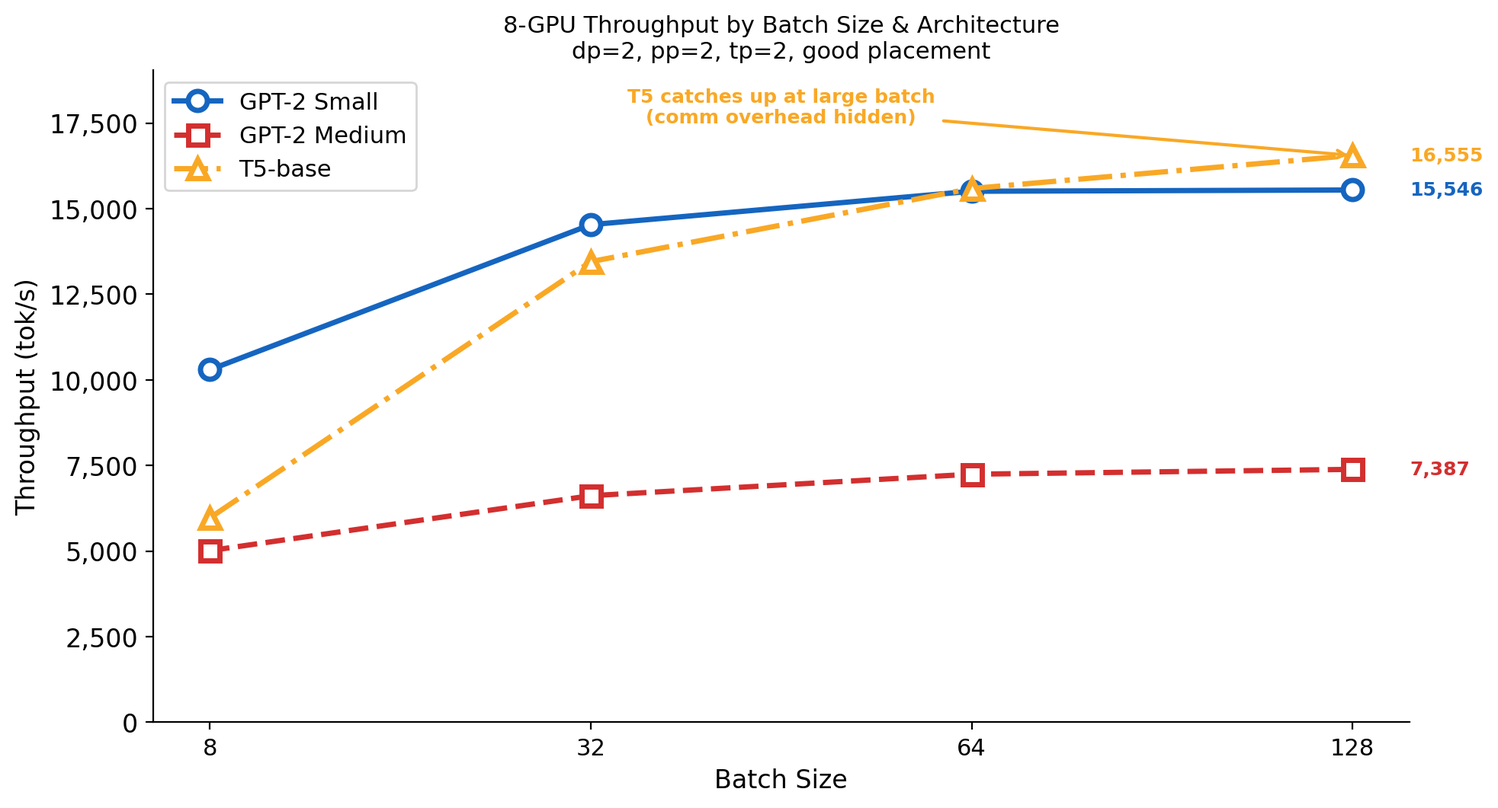
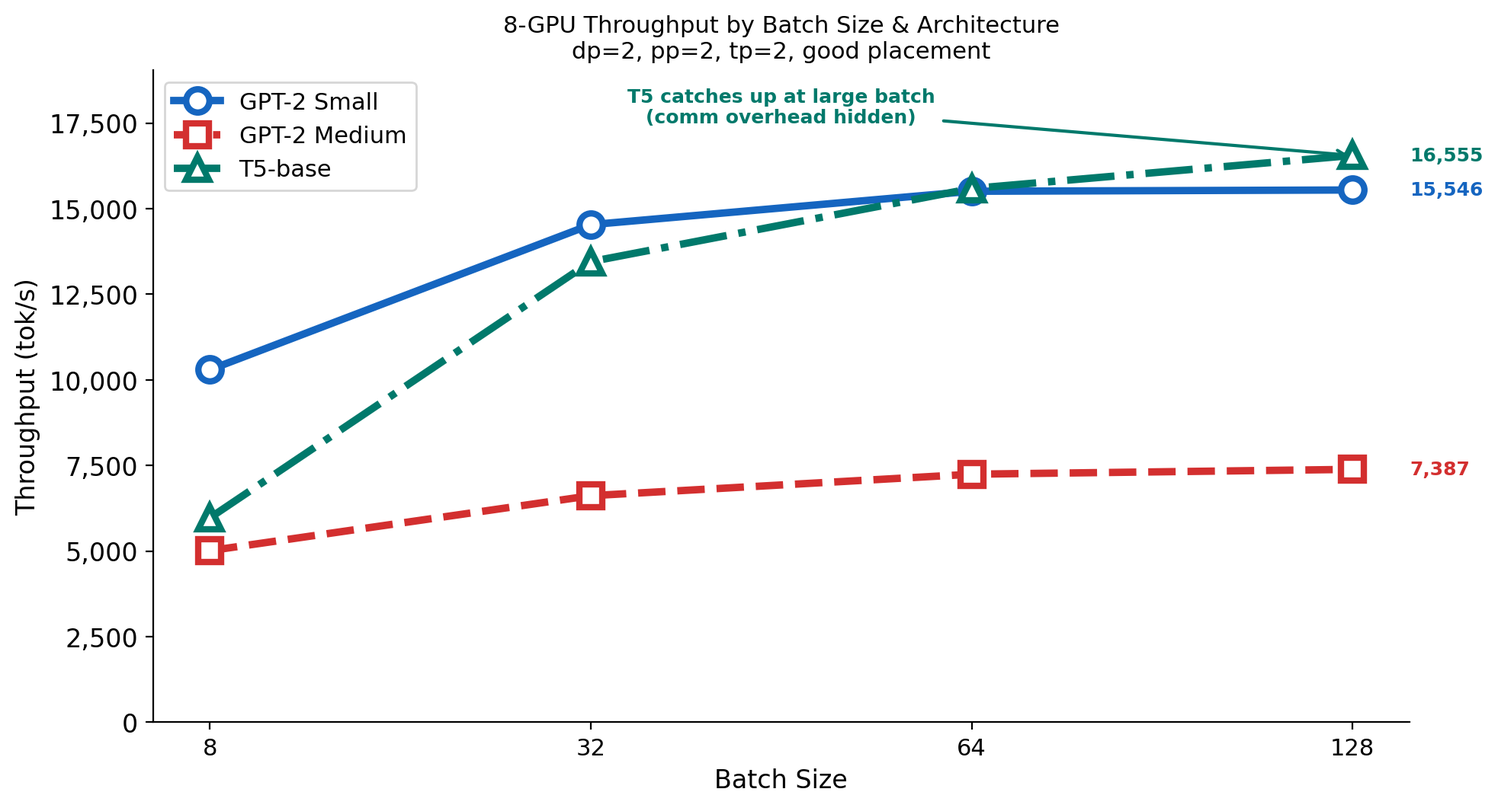
FINAL report 3 - report_phase3_final.tex

diff --git a/reports/phase3/report_phase3_final.tex b/reports/phase3/report_phase3_final.tex
@@ -13,7 +13,7 @@
     T\kern-.1667em\lower.7ex\hbox{E}\kern-.125emX}}
 \begin{document}
 
-\title{Mini Colossal-AI Phase~3: Communication-Aware 3D Hybrid Parallelism on Heterogeneous GPU Clusters\\}
+\title{Mini Colossal-AI: Implementing Distributed Parallelism Strategies from Scratch\\}
 
 \author{\IEEEauthorblockN{Dinesh Chand}
 \IEEEauthorblockA{\textit{MTech-AI, IISc-Bangalore} \\
@@ -36,63 +36,38 @@ nadhiyar@iisc.ac.in}
 
 % ==============================================================================
 \begin{abstract}
-We present Phase~3 of \textit{Mini Colossal-AI}, extending our from-scratch distributed training library to full 3D hybrid parallelism (DP$\times$PP$\times$TP) on a heterogeneous GPU cluster. Using 2~nodes with 4~NVIDIA T4 GPUs each (PCIe intra-node at ${\sim}15$\,GB/s, TCP inter-node at ${\sim}0.6$\,GB/s), we systematically study communication-aware placement---the assignment of parallelism axes to network tiers. We find that placing pipeline parallelism on the slow inter-node link (``good'' placement) yields up to 28.5\% higher throughput compared to the worst placement, and that incorrect placement causes training deadlocks at batch sizes ${\geq}16$. Tensor parallelism memory savings ($-$37\% per GPU) enable 16$\times$ larger batch sizes, pushing throughput from 4,851 to 7,387~tok/s for GPT\nobreakdash-2 Medium. We further implement T5-base, an encoder-decoder model, and show that its asymmetric architecture causes lower hybrid scaling (1.78$\times$ at bs=8) compared to symmetric GPT\nobreakdash-2 (2.65--3.57$\times$), attributable to pipeline imbalance and higher tensor-parallel communication overhead. At large batch sizes, T5 closes this gap (3.49$\times$ vs.\ 3.51$\times$), demonstrating that batch-level amortization can compensate for architectural disadvantages.
+Training large language models requires distributing computation across multiple GPUs, but production frameworks hide the underlying communication logic behind high-level APIs. We present \textit{Mini Colossal-AI}, a distributed training library built entirely from raw \texttt{torch.distributed} primitives, implementing four parallelism strategies---data parallelism (DP), ZeRO optimizer sharding, 1D tensor parallelism (TP), and pipeline parallelism (PP)---with multiple variants each, composed through a unified 3D plugin modeled after Colossal-AI's process group mesh. We benchmark standalone and 2-axis hybrid configurations on a 4-GPU all-TCP cluster, then scale to a heterogeneous 8-GPU cluster with full 3D parallelism (DP$\times$PP$\times$TP). Communication-aware placement yields up to 28.5\% higher throughput and is essential for training stability. TP memory savings enable 16$\times$ larger batch sizes, pushing peak throughput to 7,387~tok/s (4.73$\times$ single-GPU speedup). Extending to the T5-base encoder-decoder model, we find that architectural asymmetry reduces scaling at small batches but large batches close the gap.
 \end{abstract}
 
 \begin{IEEEkeywords}
-Distributed Training, Communication-Aware Placement, 3D Hybrid Parallelism, Pipeline Parallelism, Tensor Parallelism, Encoder-Decoder
+Distributed Training, Data Parallelism, Pipeline Parallelism, Tensor Parallelism, ZeRO, Communication-Aware Placement, 3D Hybrid Parallelism
 \end{IEEEkeywords}
 
 % ==============================================================================
 \section{Introduction}
 
-Training large language models requires distributing computation across multiple GPUs, typically combining data parallelism (DP), tensor parallelism (TP), and pipeline parallelism (PP) into 3D hybrid configurations~\cite{DBLP:journals/corr/abs-1909-08053, 10.1145/3605573.3605613}. While each axis has well-understood trade-offs in isolation, their interaction on heterogeneous clusters---where intra-node and inter-node links differ by an order of magnitude in bandwidth---is less explored in educational implementations.
+The growth of Transformer-based models from millions to billions of parameters~\cite{DBLP:journals/corr/abs-1810-04805, DBLP:journals/corr/abs-2005-14165} has created a ``memory wall'' where model parameters, gradients, and optimizer states together exceed the capacity of a single GPU. Distributed training addresses this by spreading computation across multiple devices, but different strategies involve different trade-offs: Data Parallelism (DP) replicates the model on every GPU, Tensor Parallelism (TP)~\cite{DBLP:journals/corr/abs-1909-08053} splits individual layers, Pipeline Parallelism (PP)~\cite{DBLP:journals/corr/abs-1811-06965, 10.1145/3341301.3359646} distributes layers across devices, and ZeRO~\cite{rajbhandari2019zero} partitions optimizer states. Production frameworks such as DeepSpeed~\cite{rasley2020deepspeed} and Colossal-AI~\cite{10.1145/3605573.3605613} implement and compose these strategies, but they hide the underlying communication logic behind high-level APIs, making it difficult to reason about how each strategy works.
 
-In Phase~2 of this project, we built \textit{Mini Colossal-AI}: a from-scratch distributed training library implementing DP, TP, PP, and ZeRO optimizer sharding using only \texttt{torch.distributed} primitives, composed through a unified 3D plugin modeled after Colossal-AI~\cite{10.1145/3605573.3605613}. That phase operated on a 4-node, all-TCP cluster (1~GPU per node), limiting experiments to two parallelism axes at a time under uniformly slow communication.
+To develop this understanding from first principles, we present \textit{Mini Colossal-AI}, a distributed training library built entirely from raw \texttt{torch.distributed} primitives. We implement four parallelism strategies---DP (with four gradient sync variants), ZeRO Stage~1 and~2, 1D TP (Megatron-LM style), and PP (naive and 1F1B schedules)---and compose them into hybrid configurations through a unified 3D plugin modeled after Colossal-AI's process group mesh~\cite{10.1145/3605573.3605613}.
 
-Phase~3 addresses three limitations. First, we move to a heterogeneous-interconnect cluster (2 nodes $\times$ 4~GPUs, PCIe intra-node, TCP inter-node) and activate all three parallelism axes simultaneously in a $(2,2,2)$ mesh. Second, we systematically study \textit{communication-aware placement}: which parallelism axis should be assigned to which network tier, and what happens when the assignment is wrong. Third, we extend our framework to support T5-base~\cite{raffel2020exploring}, an encoder-decoder architecture, to test whether our findings generalize across fundamentally different model structures.
+We benchmark all standalone and 2-axis hybrid configurations on a 4-node all-TCP cluster, then scale to a heterogeneous 8-GPU cluster and activate all three axes simultaneously. We systematically study \textit{communication-aware placement}---the mapping of parallelism axes to network tiers---and further extend our framework to T5-base~\cite{raffel2020exploring}, an encoder-decoder architecture, to test whether our findings generalize across fundamentally different model structures.
 
-\textbf{Phase~2 context.} On the Phase~2 all-TCP cluster, PP dominated throughput because it only performs point-to-point sends, while TP and DP suffered from frequent all-reduces over the slow network. Table~\ref{tab:phase2v3} compares Phase~2 standalone and 2-axis results with Phase~3's full 3D hybrid. These results raised the natural question: on a cluster with \textit{both} fast and slow links, which axis should be placed where? Phase~3 answers this question and simultaneously activates all three axes for the first time.
-
-\begin{table}[h]
-\centering
-\caption{Phase~2 vs.\ Phase~3 --- GPT-2 Medium throughput progression}
-\label{tab:phase2v3}
-\small
-\begin{tabular}{@{}llrr@{}}
-\toprule
-\textbf{Phase} & \textbf{Config} & \textbf{GPUs} & \textbf{tok/s} \\
-\midrule
-\multicolumn{4}{@{}l}{\textit{Phase~2: 4$\times$g4dn.xlarge, all-TCP}} \\
-\addlinespace
-2 & DP (NCCL-bucketed) & 4 & 1,393 \\
-2 & TP (4-way) & 4 & 959 \\
-2 & PP (1F1B, 4 stages) & 4 & 3,070 \\
-2 & DP$\times$TP & 4 & 2,327 \\
-2 & DP$\times$PP & 4 & 2,281 \\
-\midrule
-\multicolumn{4}{@{}l}{\textit{Phase~3: 2$\times$g4dn.12xlarge, PCIe\,+\,TCP}} \\
-\addlinespace
-3 & 3D good (bs=8) & 8 & 4,851 \\
-3 & 3D good (bs=128) & 8 & 7,387 \\
-\bottomrule
-\end{tabular}
-\end{table}
-
-Our contributions are: (1)~a systematic placement study showing that correct axis-to-link assignment is not merely a performance optimization but is essential for training stability; (2)~a demonstration that TP-enabled memory savings unlock 16$\times$ larger batch sizes, shifting the system from communication-bound to compute-bound operation; (3)~a multi-architecture comparison revealing how pipeline imbalance and cross-attention overhead reduce T5's hybrid scaling relative to GPT-2; and (4)~an analysis of ZeRO-1 composition with full 3D parallelism.
+Our contributions are: (1)~a from-scratch implementation of four parallelism strategies with multiple variants each, composed through a unified 3D plugin; (2)~a systematic placement study showing that correct axis-to-link assignment is not merely a performance optimization but is essential for training stability; (3)~a demonstration that TP-enabled memory savings unlock 16$\times$ larger batch sizes, shifting the system from communication-bound to compute-bound operation; (4)~a multi-architecture comparison revealing how pipeline imbalance and cross-attention overhead reduce T5's hybrid scaling relative to GPT-2; and (5)~an analysis of ZeRO-1 composition with full 3D parallelism.
 
 % ==============================================================================
 \section{Related Work}
 
-\textbf{Data Parallelism.} PyTorch DDP~\cite{li2020pytorch} replicates the model on each GPU, synchronizing gradients via all-reduce after each backward pass. Ring all-reduce~\cite{patarasuk2009bandwidth} achieves bandwidth-optimal scaling, with each GPU transmitting $2(P{-}1)/P$ times the gradient size.
+\textbf{Data Parallelism (DP)} replicates the model on every GPU and synchronizes gradients after each backward pass. The main bottleneck is the all-reduce communication. Ring all-reduce~\cite{patarasuk2009bandwidth} distributes the reduction across all nodes in $2(P{-}1)$ steps, achieving bandwidth-optimal communication. Gradient bucketing~\cite{li2020pytorch} further improves this by batching many small gradient tensors into larger buffers before triggering all-reduce, reducing the number of communication rounds.
 
-\textbf{ZeRO Optimizer Sharding.} ZeRO~\cite{rajbhandari2019zero} partitions optimizer states (Stage~1), gradients (Stage~2), and parameters (Stage~3) across the DP group, trading communication for memory. DeepSpeed~\cite{rasley2020deepspeed} implements ZeRO stages as a drop-in optimizer wrapper.
+\textbf{ZeRO}~\cite{rajbhandari2019zero} addresses the memory redundancy in DP, where every GPU stores the full optimizer states, gradients, and parameters. Stage~1 partitions only the optimizer states, while Stage~2 also partitions gradients, reducing per-GPU memory from $16P$ bytes to roughly $4P + 12P/N$ or $4P + 4P/N$ respectively, where $P$ is the parameter count and $N$ is the number of GPUs.
 
-\textbf{Tensor Parallelism.} Megatron-LM~\cite{DBLP:journals/corr/abs-1909-08053} introduced 1D TP, splitting linear layers into column-parallel and row-parallel halves and inserting all-reduce operations at layer boundaries. Because TP requires two all-reduces per transformer block per forward pass, it is highly sensitive to interconnect bandwidth, motivating intra-node placement on NVLink or PCIe.
+\textbf{Tensor Parallelism (TP)} splits individual layers across GPUs. Megatron-LM~\cite{DBLP:journals/corr/abs-1909-08053} introduced 1D TP for transformers, where each attention head and MLP slice is computed on a separate GPU, requiring two all-reduces per transformer block.
 
-\textbf{Pipeline Parallelism.} GPipe~\cite{DBLP:journals/corr/abs-1811-06965} partitions the model into sequential stages across GPUs, splitting batches into micro-batches to increase utilization. PipeDream~\cite{10.1145/3341301.3359646} introduced 1F1B scheduling, which interleaves forward and backward passes to reduce memory footprint and pipeline bubbles. PP communication is point-to-point between adjacent stages, making it the least bandwidth-sensitive axis.
+\textbf{Pipeline Parallelism (PP)} assigns consecutive layers to different GPUs. GPipe~\cite{DBLP:journals/corr/abs-1811-06965} splits mini-batches into micro-batches for concurrent execution but suffers from pipeline flushes. PipeDream~\cite{10.1145/3341301.3359646} introduced the 1F1B (one-forward-one-backward) schedule, which interleaves forward and backward passes to keep more stages busy simultaneously.
 
-\textbf{3D Hybrid Parallelism.} Colossal-AI~\cite{10.1145/3605573.3605613} arranges ranks in an $N$-dimensional mesh where slower-varying axes map to slower network tiers. Megatron-LM~\cite{DBLP:journals/corr/abs-1909-08053} keeps TP within NVLink-connected nodes and PP across nodes. Our work validates these placement heuristics empirically, tests three distinct axis-to-link assignments, and additionally demonstrates the stability implications of incorrect placement.
+\textbf{Colossal-AI}~\cite{10.1145/3605573.3605613} unifies these strategies through a process group mesh, an $N$-dimensional grid of ranks where each axis corresponds to a parallelism dimension (DP, PP, TP), enabling arbitrary combinations without code duplication. Our work follows this design closely.
+
+\textbf{Communication-Aware Placement.} In 3D hybrid parallelism, which axis maps to which network tier matters significantly. Megatron-LM~\cite{DBLP:journals/corr/abs-1909-08053} keeps TP within NVLink-connected nodes and PP across nodes, since PP only performs point-to-point sends while TP requires frequent all-reduces. Our work validates these placement heuristics empirically, tests three distinct axis-to-link assignments, and demonstrates the stability implications of incorrect placement.
 
 \textbf{T5 Encoder-Decoder Model.} Raffel et al.~\cite{raffel2020exploring} proposed T5, casting every NLP task as sequence-to-sequence generation. Unlike decoder-only GPT-2~\cite{radford2019language}, each T5 decoder block contains an additional cross-attention sublayer attending to the encoder output, increasing both parameter count per block and TP communication volume.
 
@@ -101,17 +76,53 @@ Our contributions are: (1)~a systematic placement study showing that correct axi
 
 \subsection{Hardware Setup}
 
-Phase~3 runs on 2~AWS g4dn.12xlarge instances, each with 4~NVIDIA Tesla T4 GPUs (16\,GB HBM each). Intra-node GPU communication uses PCIe Gen3 (${\sim}15$\,GB/s); inter-node communication uses TCP over VPC (${\sim}0.6$\,GB/s). This 25$\times$ bandwidth gap between intra-node and inter-node links creates the heterogeneous environment central to our placement study. All experiments use PyTorch~2.4.1 with NCCL for collective operations and Gloo for control-plane coordination.
+Standalone and 2-axis hybrid experiments run on 4~AWS g4dn.xlarge instances (1~T4 GPU each), connected via TCP over a VPC private network. For full 3D hybrid experiments, we use 2~AWS g4dn.12xlarge instances, each with 4~NVIDIA Tesla T4 GPUs (16\,GB VRAM each). Intra-node GPU communication uses PCIe Gen3 (${\sim}15$\,GB/s); inter-node communication uses TCP over VPC (${\sim}0.6$\,GB/s). This 25$\times$ bandwidth gap between intra-node and inter-node links creates the heterogeneous environment central to our placement study. All experiments use PyTorch~2.4.1 with CUDA 12.1 and the NCCL backend.
 
-\subsection{3D Hybrid Parallelism Plugin}
+\subsection{Models and Data}
 
-With 8~GPUs and $\text{dp}{=}2$, $\text{pp}{=}2$, $\text{tp}{=}2$, our unified plugin creates a $(2,2,2)$ 3D process group mesh. Each GPU belongs simultaneously to one DP group, one PP group, and one TP group. The plugin passes the correct process sub-group to each component: the DP sub-group to gradient synchronization, PP neighbor ranks to the 1F1B pipeline schedule, and the TP sub-group to column/row-parallel layers. No code changes are needed between configurations---only the mesh axis ordering changes.
+All models are implemented from scratch in PyTorch. We use two GPT-2~\cite{radford2019language} configurations:
+\begin{itemize}
+\item \textbf{GPT-2 Small}: 12~layers, $d{=}768$, 12~heads, ${\sim}117$M parameters. Each block contributes 2~TP all-reduces (one per sub-layer), giving 24 all-reduces per forward pass.
+\item \textbf{GPT-2 Medium}: 24~layers, $d{=}1024$, 16~heads, ${\sim}354$M parameters. The 24~identical blocks split evenly across 2~pipeline stages (12 each), producing near-perfect compute balance. 48 all-reduces per forward pass.
+\end{itemize}
 
-For pipeline stages, each stage wraps its transformer blocks in tensor-parallel versions (column-parallel and row-parallel linear layers with built-in all-reduce). Replicated parameters (embeddings, LayerNorm, \texttt{lm\_head}) are synchronized across the TP group before DP gradient synchronization to ensure consistency.
+\textbf{T5-base}~\cite{raffel2020exploring} is an encoder-decoder transformer (${\sim}237$M parameters) with 12~encoder layers ($d{=}768$, 12~heads) and 12~decoder layers. Each decoder block adds a cross-attention sub-layer attending to the encoder output, requiring 3~TP all-reduces per block versus GPT-2's~2---giving 60 total per forward pass (24~encoder + 36~decoder), 25\% more than GPT-2 Medium. For pipeline parallelism, the encoder maps to stage~0 and the decoder to stage~1, creating an inherent compute imbalance because decoder blocks are heavier.
+
+The dataset is WikiText-2~\cite{merity2016pointer} (${\sim}2.4$M tokens), tokenized with the GPT-2 byte-pair encoding, with a fixed sequence length of 256 tokens and a vocabulary size of 50,257.
+
+\subsection{Data Parallelism}
+
+Each GPU holds a full copy of the model and processes a distinct data shard. After the backward pass, gradients are averaged across all GPUs before the optimizer step. Our implementations use two communication operations from PyTorch's \texttt{torch.distributed} library~\cite{li2020pytorch}: \texttt{dist.send}/\texttt{dist.recv}, where one GPU sends gradients directly to another, and \texttt{dist.all\_reduce}, where all GPUs participate at once to sum their gradients, with NCCL internally choosing the best algorithm (ring, tree, etc.).
+
+We implement four synchronization variants. First, the naive approach uses \texttt{dist.send}/\texttt{dist.recv} in an all-to-all pattern with $O(P)$ bandwidth cost. Second, ring all-reduce~\cite{patarasuk2009bandwidth} arranges GPUs in a ring and performs reduce-scatter and all-gather phases via \texttt{dist.send}/\texttt{dist.recv}, achieving a bandwidth-optimal cost of $2N(P{-}1)/P$. Third, the ring-bucketed variant groups gradients into 25\,MB buckets~\cite{li2020pytorch} before applying the same ring algorithm, reducing communication rounds from one per parameter to roughly five per step. Fourth, the NCCL-bucketed variant uses the same bucketing but calls \texttt{dist.all\_reduce} on each bucket, letting NCCL handle the communication internally. This variant also accepts an optional process group so that gradient averaging can be restricted to a subset of GPUs in hybrid configurations.
+
+\subsection{ZeRO Optimizer Sharding}
+
+We implement ZeRO~\cite{rajbhandari2019zero} Stage~1 and Stage~2 as custom optimizer wrappers. In both stages, the model's parameters are flattened into a single vector and divided equally among $P$ GPUs. Each GPU only creates Adam optimizer states (momentum and variance) for its own $1/P$ partition, cutting optimizer memory by a factor of $P$.
+
+In Stage~1, after the backward pass, gradients are averaged across all GPUs using \texttt{dist.all\_reduce}. Each GPU then runs the Adam update only on its own partition and calls \texttt{dist.all\_gather} so every GPU ends up with the full updated model.
+
+Stage~2 saves additional memory by also partitioning gradients. Each GPU only keeps the gradient slice for its own partition and discards the rest. After updating its partition, each GPU broadcasts its updated parameters to all others using \texttt{dist.broadcast}. This reduces both gradient and optimizer memory by a factor of $P$.
+
+Stage~1 accepts an optional process group parameter, allowing it to run within a subset of GPUs for hybrid parallelism.
+
+\subsection{1D Tensor Parallelism}
+
+Following Megatron-LM~\cite{DBLP:journals/corr/abs-1909-08053}, we implement two custom linear layers: \textbf{ColumnParallelLinear} (splits weights along columns, no forward communication, all-reduce on backward) and \textbf{RowParallelLinear} (splits along rows, all-reduce to sum partial outputs). In each transformer block, the attention Q/K/V projections use column-parallel and the output projection uses row-parallel; the MLP is split similarly. This gives 2 all-reduces per block, totaling 48 per forward pass for our 24-layer GPT-2 Medium model.
+
+\subsection{Pipeline Parallelism with 1F1B}
+
+We partition the model's transformer blocks evenly across pipeline stages and communicate activations (forward) and gradients (backward) via \texttt{dist.send}/\texttt{dist.recv}. We implement two schedules: the \textbf{naive} schedule processes all micro-batches sequentially through each stage with bubble ratio $\approx (S{-}1)/S$, while the \textbf{1F1B} schedule interleaves one forward and one backward pass per stage after a warmup of $S{-}1$ forwards, reducing the bubble to $(S{-}1)/(S{-}1+M)$. With $S=4$ stages and $M=8$ micro-batches, this drops the bubble from 75\% to $\sim$27\%. Both schedules support rank remapping for use in hybrid configurations.
+
+\subsection{Hybrid Parallelism and the Unified Plugin}
+
+Following Colossal-AI's approach~\cite{10.1145/3605573.3605613}, we wrote a single unified plugin that takes TP size, PP size, and ZeRO stage as arguments and computes $\text{dp\_size} = \text{world\_size} / (\text{tp\_size} \times \text{pp\_size})$ automatically. The core idea is a \textbf{3D process group mesh}: all GPUs are arranged in a grid with axes (DP, PP, TP), and \texttt{torch.distributed} sub-groups are created along each axis. Every standalone component accepts an optional process group---the plugin passes the DP sub-group to gradient sync, PP neighbor ranks to the pipeline schedule, and the TP sub-group to column/row-parallel layers.
+
+On the 4-GPU all-TCP cluster, this limits us to two axes at a time (e.g., DP$\times$PP or DP$\times$TP). With 8~GPUs on the heterogeneous cluster, we activate all three axes simultaneously in a $(2,2,2)$ mesh where each GPU belongs to one TP, PP, and DP group. For pipeline stages, each stage wraps its transformer blocks in tensor-parallel versions. Replicated parameters (embeddings, LayerNorm, \texttt{lm\_head}) are synchronized across the TP group before DP gradient synchronization to ensure consistency.
 
 \subsection{Communication-Aware Placement}
 
-The mesh axis ordering determines which parallelism axis maps to the inter-node link. The first (slowest-varying) axis spans across nodes. We test three placements:
+With 8~GPUs arranged in a $(2,2,2)$ mesh, each GPU belongs to exactly one TP, PP, and DP sub-group. The three axes have very different communication profiles: DP performs one all-reduce of the full gradient buffer (${\sim}1.4$\,GB for GPT-2 Medium) per step, TP performs many small all-reduces at every transformer block boundary (48 per forward pass for GPT-2 Medium), and PP sends only small point-to-point activation tensors between adjacent stages. On our heterogeneous cluster, the mesh axis ordering determines which axis maps to the slow inter-node TCP link (${\sim}0.6$\,GB/s) versus the fast intra-node PCIe (${\sim}15$\,GB/s)---the first (slowest-varying) axis spans across nodes. We test three placements:
 
 \begin{itemize}
 \item \textbf{Good}: mesh\,=\,(pp,\,dp,\,tp). PP goes inter-node; DP and TP stay intra-node.
@@ -119,53 +130,78 @@ The mesh axis ordering determines which parallelism axis maps to the inter-node 
 \item \textbf{Worst}: mesh\,=\,(tp,\,pp,\,dp). TP goes inter-node; PP and DP stay intra-node.
 \end{itemize}
 
-The rationale: PP communicates only small point-to-point activation tensors between adjacent stages, DP synchronizes the entire gradient buffer (${\sim}1.4$\,GB for GPT-2 Medium), and TP performs many small but frequent all-reduces. We hypothesize that PP is the most tolerant of slow links, while DP and TP should reside on the fast intra-node interconnect.
+Since PP communicates only small activation tensors, it is the most tolerant of slow links, while the bandwidth-heavy DP and latency-sensitive TP should reside on the fast intra-node interconnect. Fig.~\ref{fig:good_placement} illustrates the good placement: TP pairs (e.g., GPU~0$\leftrightarrow$1) and DP pairs (e.g., GPU~0$\leftrightarrow$2) communicate over PCIe within each node, while PP links (e.g., GPU~0$\leftrightarrow$4) cross the slow inter-node TCP link.
 
-\subsection{Models}
-
-All models are implemented from scratch in PyTorch, using pre-norm residual connections (LayerNorm before each sub-layer) and GELU activations. Both architectures use fused QKV projections for self-attention and a feed-forward intermediate dimension of $4\times$ the hidden dimension.
-
-\textbf{GPT-2} is a decoder-only autoregressive transformer~\cite{radford2019language}. Each block consists of two sub-layers: (1)~causal multi-head self-attention with a triangular mask preventing attention to future tokens, and (2)~a position-wise feed-forward network (MLP). Token and learned positional embeddings are summed before the block stack; a final LayerNorm feeds into a language model head whose weights are tied with the token embedding matrix. We use two configurations:
-\begin{itemize}
-\item \textbf{GPT-2 Small}: 12~layers, $d{=}768$, 12~heads, ${\sim}117$M parameters. Each block contributes 2~TP all-reduces (one per sub-layer), giving 24 all-reduces per forward pass.
-\item \textbf{GPT-2 Medium}: 24~layers, $d{=}1024$, 16~heads, ${\sim}354$M parameters. The 24~identical blocks split evenly across 2~pipeline stages (12 each), producing near-perfect compute balance. 48 all-reduces per forward pass.
-\end{itemize}
-
-\textbf{T5-base} is an encoder-decoder transformer~\cite{raffel2020exploring} (${\sim}237$M parameters) with 12~encoder layers ($d{=}768$, 12~heads) and 12~decoder layers. Encoder blocks mirror the GPT-2 structure but use bidirectional self-attention (no causal mask). Decoder blocks add a third sub-layer---cross-attention---between self-attention and MLP: queries come from the decoder hidden state while keys and values come from the encoder output. This cross-attention sub-layer adds ${\sim}7$M parameters per decoder block (separate $W_Q$, fused $W_{KV}$, and $W_O$ projections). Under tensor parallelism, each decoder block requires 3~all-reduces versus GPT-2's~2, giving 60 total per forward pass (24~encoder + 36~decoder)---25\% more than GPT-2 Medium. For pipeline parallelism, the encoder maps to stage~0 and the decoder to stage~1, creating an inherent compute imbalance because decoder blocks are heavier.
-
-\subsection{Dataset}
-
-All models are trained on the WikiText-2 dataset~\cite{merity2016pointer} with a fixed sequence length of 256 tokens and a vocabulary size of 50,257 (GPT-2 tokenizer).
+\begin{figure}[h]
+\centering
+\includegraphics[width=\columnwidth]{fig_ppt_comm_aware_placement.png}
+\caption{Good placement on the $(2,2,2)$ mesh. TP (blue, solid) and DP (green, dashed) stay on fast intra-node PCIe; PP (red, dashed) crosses the slow inter-node TCP link.}
+\label{fig:good_placement}
+\end{figure}
 
 \subsection{Evaluation Metrics}
 
-We report \textit{aggregate throughput} (tokens/second across all GPUs), \textit{peak GPU memory} per pipeline stage, and \textit{speedup} relative to the single-GPU baseline at the same or best-case batch size. All experiments run for 20--30 training steps with AdamW ($\text{lr}=3{\times}10^{-4}$); we report the average of the last 15~steps to exclude warmup.
+We report \textit{aggregate throughput} (tokens/second across all GPUs), \textit{peak GPU memory} per pipeline stage, and \textit{speedup} relative to the single-GPU baseline at the same or best-case batch size, across 20--30 training steps per experiment.
 
 % ==============================================================================
 \section{Results and Discussion}
 
-\subsection{Single-GPU Baselines}
+\subsection{Standalone Strategies on the 4-GPU TCP Cluster}
 
-Table~\ref{tab:baselines} shows single-GPU performance for each model at various batch sizes. These baselines serve as the reference for all speedup calculations.
+We first evaluate each strategy in isolation on the 4-node all-TCP cluster using GPT-2 Medium (354M parameters, bs=4 per GPU unless noted). The single-GPU baseline throughput is 1,361~tok/s with 7.67\,GB peak memory.
+
+Fig.~\ref{fig:pcie_tcp} compares each standalone strategy on both the all-TCP cluster and a single PCIe node. On TCP, PP achieves the highest throughput (3,070~tok/s) because it only performs point-to-point sends between adjacent stages, while DP and TP suffer from frequent all-reduce operations over the slow network. TP provides the best memory reduction (56\%) but its 48 all-reduces per forward pass add ${\sim}316$\,ms of overhead on TCP. Moving to PCIe (${\sim}15$\,GB/s), DP, ZeRO, and TP all see 2.4--3.0$\times$ speedups because they rely on bandwidth-heavy all-reduce or all-gather operations, while PP improves by only 4\% because its small point-to-point activation tensors barely saturate even the TCP link. This asymmetry directly motivates the communication-aware placement study: PP should be assigned to the slow inter-node link while DP and TP benefit from fast intra-node PCIe.
+
+\begin{figure}[h]
+\centering
+\includegraphics[width=\columnwidth]{fig_phase3_pcie_vs_tcp.png}
+\caption{PCIe vs.\ TCP throughput for each standalone strategy (4 GPUs, GPT-2 Medium). DP, TP, and ZeRO-1 gain 2.4--3.0$\times$ from faster interconnect; PP gains only 1.0$\times$.}
+\label{fig:pcie_tcp}
+\end{figure}
+
+\subsubsection{2-Axis Hybrid Configurations}
+
+Table~\ref{tab:hybrid} shows hybrid results using the unified plugin on the 4-GPU cluster, where only two axes can be active simultaneously. DP$\times$TP and DP$\times$PP achieve similar throughput (${\sim}2,300$\,tok/s) with DP$\times$PP offering better memory savings (47\% vs.\ 37\%). Adding ZeRO-1 on top of DP$\times$PP reduces throughput by 24\% because the extra all-gather communication is not offset by meaningful memory savings with only 2 DP-group GPUs.
+
+\begin{table}[h]
+\centering
+\caption{2-axis hybrid parallelism (4 GPUs, all-TCP, GPT-2 Medium, bs=8)}
+\label{tab:hybrid}
+\small
+\begin{tabular}{lrrrr}
+\toprule
+\textbf{Config} & \textbf{Throughput} & \textbf{Mem} & \textbf{Bubble} & \textbf{Mem} \\
+ & \textbf{(tok/s)} & \textbf{(GB)} & & \textbf{Save} \\
+\midrule
+DP2$\times$TP2 & 2,327 & 4.80 & --- & 37\% \\
+DP2$\times$PP2 & 2,281 & 4.08 & 11.1\% & 47\% \\
+DP2$\times$PP2+ZeRO-1 & 1,742 & 5.74 & 11.1\% & opt/2 \\
+\bottomrule
+\end{tabular}
+\end{table}
+
+\subsection{Single-GPU Baselines (8-GPU Cluster)}
+
+Table~\ref{tab:baselines} shows single-GPU performance for each model at various batch sizes on the 8-GPU cluster. These baselines serve as the reference for all speedup calculations in the 3D hybrid experiments.
 
 \begin{table}[h]
 \centering
 \caption{Single-GPU baselines (T4 16\,GB)}
 \label{tab:baselines}
 \small
-\begin{tabular}{lrrrr}
+\begin{tabular}{lrrrrr}
 \toprule
-\textbf{Model} & \textbf{bs=4} & \textbf{bs=8} & \textbf{bs=16} & \textbf{Max bs} \\
- & \textbf{(tok/s)} & \textbf{(tok/s)} & \textbf{(tok/s)} & \\
+\textbf{Model} & \textbf{bs=4} & \textbf{bs=8} & \textbf{bs=16} & \textbf{bs=32} & \textbf{Max bs} \\
+ & \textbf{(tok/s)} & \textbf{(tok/s)} & \textbf{(tok/s)} & \textbf{(tok/s)} & \\
 \midrule
-GPT-2 Small & 3,619 & 4,147 & 4,426 & 16 \\
-GPT-2 Medium & 1,404 & 1,561 & OOM & 8 \\
-T5-base & 3,125 & 3,853 & 4,441 & 32 \\
+GPT-2 Small & 3,619 & 4,147 & 4,426 & OOM & 16 \\
+GPT-2 Medium & 1,404 & 1,561 & OOM & --- & 8 \\
+T5-base & 3,125 & 3,853 & 4,441 & 4,747 & 32 \\
 \bottomrule
 \end{tabular}
 \end{table}
 
-GPT-2 Medium can fit only bs=8 on a single T4 (11.1\,GB peak), while T5-base and GPT-2 Small accommodate larger batches. The T5-base single-GPU throughput at bs=32 reaches 4,747~tok/s.
+GPT-2 Medium can fit only bs=8 on a single T4 (11.1\,GB peak), while T5-base and GPT-2 Small accommodate larger batches.
 
 \subsection{Communication-Aware Placement}
 
@@ -224,14 +260,14 @@ Table~\ref{tab:arch_bs8} shows 8-GPU throughput and speedup at bs=8.
 \textbf{Model} & \textbf{Params} & \textbf{1-GPU} & \textbf{8-GPU} & \textbf{Speedup} \\
  & & \textbf{(tok/s)} & \textbf{(tok/s)} & \\
 \midrule
-GPT-2 Small & 117M & 3,879 & 10,297 & 2.65$\times$ \\
-GPT-2 Medium & 354M & 1,404 & 5,014 & 3.57$\times$ \\
-T5-base & 237M & 3,359 & 5,973 & 1.78$\times$ \\
+GPT-2 Small & 117M & 4,147 & 10,297 & 2.48$\times$ \\
+GPT-2 Medium & 354M & 1,561 & 5,014 & 3.21$\times$ \\
+T5-base & 237M & 3,853 & 5,973 & 1.55$\times$ \\
 \bottomrule
 \end{tabular}
 \end{table}
 
-GPT-2 achieves 2.65--3.57$\times$ hybrid speedup, while T5-base achieves only 1.78$\times$ despite being mid-sized (237M, between GPT-2 Small and Medium). Since GPT-2 Small at 117M is \textit{smaller} than T5-base yet scales 49\% better, the difference is architectural, not size-related.
+GPT-2 achieves 2.48--3.21$\times$ hybrid speedup, while T5-base achieves only 1.55$\times$ despite being mid-sized (237M, between GPT-2 Small and Medium). Since GPT-2 Small at 117M is \textit{smaller} than T5-base yet scales 60\% better, the difference is architectural, not size-related.
 
 \subsubsection{Batch Size Sweep Across Architectures}
 
@@ -263,20 +299,28 @@ T5-base & 4,747 & 16,555 & 3.49$\times$ & +177\% \\
 \end{tabular}
 \end{table}
 
-T5-base's speedup improves from 1.78$\times$ (bs=8) to 3.49$\times$ (bs=128)---a 96\% improvement---while GPT-2 Small improves from 2.65$\times$ to 3.51$\times$ (32\% improvement). Large batches amortize both the pipeline bubble and the extra TP all-reduces, neutralizing T5's architectural disadvantages. GPT-2 Medium achieves the highest speedup (4.73$\times$) because its larger model size provides the best compute-to-communication ratio.
+T5-base's speedup improves from 1.55$\times$ (bs=8) to 3.49$\times$ (bs=128)---a 125\% improvement---while GPT-2 Small improves from 2.48$\times$ to 3.51$\times$ (42\% improvement). Large batches amortize both the pipeline bubble and the extra TP all-reduces, neutralizing T5's architectural disadvantages. GPT-2 Medium achieves the highest speedup (4.73$\times$) because its larger model size provides the best compute-to-communication ratio.
 
 \subsection{Pipeline Imbalance Analysis}
 
-The key architectural factor behind T5's lower scaling at small batch sizes is \textit{pipeline stage imbalance}. Fig.~\ref{fig:imbalance} visualizes per-stage memory for each architecture. GPT-2 Medium's identical transformer blocks split into near-perfect halves (2.57 vs.\ 2.56\,GB), producing minimal pipeline bubbles. T5-base's encoder-decoder split creates a 62.7\% imbalance: the decoder stage (2.75\,GB) is significantly heavier than the encoder stage (1.69\,GB) because each decoder block contains an additional cross-attention sublayer with ${\sim}7$M extra parameters. In the 1F1B pipeline schedule, the lighter encoder finishes each micro-batch faster and must idle waiting for the slower decoder, accumulating wasted time across all micro-batches.
+T5-base's lower scaling at small batch sizes stems from \textit{pipeline stage imbalance}. Table~\ref{tab:imbalance} shows per-stage memory: GPT-2's identical blocks split into near-perfect halves, while T5-base's encoder-decoder split creates a 62.7\% imbalance because each decoder block contains an additional cross-attention sublayer (${\sim}7$M extra parameters). In the 1F1B schedule, the lighter encoder idles waiting for the slower decoder. A secondary factor is TP communication: T5-base requires 60 all-reduces per forward pass versus 48 for GPT-2 Medium (25\% more), further penalizing T5 at small batch sizes.
 
-\begin{figure}[h]
+\begin{table}[h]
 \centering
-\includegraphics[width=\columnwidth]{fig6_pipeline_imbalance.png}
-\caption{Per-stage memory across architectures. T5-base shows 62.7\% imbalance between encoder (stage~0) and decoder (stage~1), while GPT-2 is nearly perfectly balanced.}
-\label{fig:imbalance}
-\end{figure}
-
-A secondary factor is TP communication volume. T5-base requires 60 all-reduces per forward pass (12~encoder blocks $\times$ 2 + 12~decoder blocks $\times$ 3), compared to 48 for GPT-2 Medium (24~blocks $\times$ 2). This 25\% increase in communication operations further penalizes T5 under tensor parallelism, particularly when communication is not fully hidden by computation at small batch sizes.
+\caption{Per-stage memory and pipeline imbalance}
+\label{tab:imbalance}
+\small
+\begin{tabular}{lrrr}
+\toprule
+\textbf{Model} & \textbf{Stage 0} & \textbf{Stage 1} & \textbf{Imbalance} \\
+ & \textbf{(GB)} & \textbf{(GB)} & \\
+\midrule
+GPT-2 Small & 1.06 & 1.06 & 0\% \\
+GPT-2 Medium & 2.57 & 2.56 & 0.4\% \\
+T5-base & 1.69 & 2.75 & 62.7\% \\
+\bottomrule
+\end{tabular}
+\end{table}
 
 \subsection{ZeRO-1 Composition with 3D Parallelism}
 
@@ -301,42 +345,21 @@ ZeRO-1 partitions optimizer states across the DP group (2~GPUs in our configurat
 
 \subsection{Summary of Key Findings}
 
-Table~\ref{tab:summary} consolidates the main quantitative findings.
+The main quantitative findings are:
 
-\begin{table}[h]
-\centering
-\caption{Summary of Phase~3 key findings}
-\label{tab:summary}
-\small
-\begin{tabular}{@{}p{2.4cm}p{2.0cm}p{3.0cm}@{}}
-\toprule
-\textbf{Finding} & \textbf{Key metric} & \textbf{Implication} \\
-\midrule
-Good vs.\ worst placement & +28.5\% & PP tolerates slow links; TP/DP need fast PCIe \\
-\addlinespace
-Placement stability & Deadlock at bs${\geq}$16 & Correct placement essential, not optional \\
-\addlinespace
-Batch scaling & 4,851$\rightarrow$7,387 tok/s & TP memory savings enable 16$\times$ larger batches \\
-\addlinespace
-Architecture effect & 3.57$\times$ vs.\ 1.78$\times$ & Symmetric models scale better at small batches \\
-\addlinespace
-T5 catch-up & 3.49$\times$ vs.\ 3.51$\times$ & Large batches amortize arch.\ overhead \\
-\addlinespace
-ZeRO-1 overhead & $-$9.2\% & Manageable; valuable for larger models \\
-\bottomrule
-\end{tabular}
-\end{table}
+\begin{itemize}
+\item \textbf{Good vs.\ worst placement (+28.5\%).} PP tolerates slow links; TP/DP need fast PCIe.
+\item \textbf{Placement stability.} Bad/worst placements deadlock at bs${\geq}$16---correct placement is essential, not optional.
+\item \textbf{Batch scaling (4,851$\rightarrow$7,387 tok/s).} TP memory savings enable 16$\times$ larger batches, shifting the system from communication-bound to compute-bound.
+\item \textbf{Architecture effect (3.21$\times$ vs.\ 1.55$\times$).} Symmetric decoder-only models scale better than encoder-decoder models at small batch sizes.
+\item \textbf{T5 catch-up (3.49$\times$ vs.\ 3.51$\times$).} Large batches amortize architectural overhead, closing the gap.
+\item \textbf{ZeRO-1 overhead ($-$9.2\%).} Manageable cost; most valuable for larger models where optimizer memory is the binding constraint.
+\end{itemize}
 
 % ==============================================================================
 \section{Conclusion and Future Work}
 
-We presented a systematic study of communication-aware 3D hybrid parallelism on a heterogeneous GPU cluster. Our key findings are threefold.
-
-First, \textit{placement matters for both performance and stability}. Assigning pipeline parallelism---the least bandwidth-sensitive axis---to the slow inter-node link yields up to 28.5\% higher throughput than the worst placement. More critically, incorrect placement causes NCCL deadlocks at batch sizes ${\geq}$16, making communication-aware assignment essential for reliable training, not merely an optimization.
-
-Second, \textit{tensor parallelism enables a memory--throughput virtuous cycle}. TP shards model parameters, reducing per-GPU memory by 37\% and enabling 16$\times$ larger batch sizes than possible on a single GPU. These larger batches amortize communication overhead, pushing throughput from 4,851 to 7,387 tok/s (4.73$\times$ single-GPU speedup) and shifting the system from communication-bound to compute-bound operation.
-
-Third, \textit{model architecture fundamentally determines hybrid parallelism efficiency}. The symmetric, decoder-only GPT-2 achieves 2.65--3.57$\times$ speedup at small batch sizes, while the asymmetric, encoder-decoder T5 achieves only 1.78$\times$ under identical hardware and configuration. This gap stems from pipeline stage imbalance (62.7\% heavier decoder) and 25\% more TP communication from cross-attention. Importantly, at maximum batch size the gap closes (3.49$\times$ vs.\ 3.51$\times$), demonstrating that batch-level amortization compensates for architectural disadvantages.
+We presented \textit{Mini Colossal-AI}, a from-scratch distributed training library, and used it to systematically study communication-aware 3D hybrid parallelism on a heterogeneous GPU cluster. Our experiments show that correct placement is essential for both throughput and stability, that TP-enabled memory savings create a virtuous cycle enabling 16$\times$ larger batches (peak 4.73$\times$ speedup), and that model architecture fundamentally shapes scaling---though large batches close the gap between symmetric and asymmetric models. Notably, the peak speedup on 8~GPUs is 4.73$\times$, not the theoretical 8$\times$, because our $(2,2,2)$ mesh splits GPUs across three axes rather than using pure data parallelism: pipeline bubbles consume ${\sim}11$\% of compute even with the 1F1B schedule, TP adds 48 all-reduces per forward pass, and DP gradient synchronization further reduces utilization---each overhead multiplicatively compounds, limiting realized speedup to $\sim$59\% of the ideal.
 
 \textbf{Future work.} Several directions remain. (1)~\textit{Heterogeneous stage splitting}: splitting T5's encoder and decoder into unequal numbers of pipeline stages to reduce imbalance (e.g., 8~encoder layers on stage~0, 4~encoder + 12~decoder layers split across stages~1--2). (2)~\textit{Higher TP degrees}: testing TP=4 within a node to further reduce per-GPU memory and enable even larger models. (3)~\textit{NVLink evaluation}: moving to instances with NVLink (e.g., p3.8xlarge with V100s) to measure how the placement trade-offs change when intra-node bandwidth increases from 15\,GB/s (PCIe) to 300\,GB/s (NVLink). (4)~\textit{Mixed precision training}~\cite{micikevicius2018mixed}: combining FP16 computation with our parallelism strategies to further reduce memory and communication volume. (5)~\textit{Larger models}: testing GPT-2 Large (774M) and T5-large (770M) to evaluate how findings scale beyond the 100--350M parameter range.
 

diff --git a/generate_figures_grouped.py b/generate_figures_grouped.py
@@ -242,14 +242,15 @@ def fig3_arch_bs8():
 def fig4_arch_sweep():
     fig, ax = plt.subplots(figsize=(10, 5.5))
 
-    colors = {'GPT-2 Small': BLUE, 'GPT-2 Medium': RED, 'T5-base': YELLOW}
+    TEAL = '#00796B'
+    colors = {'GPT-2 Small': BLUE, 'GPT-2 Medium': RED, 'T5-base': TEAL}
     markers = {'GPT-2 Small': 'o', 'GPT-2 Medium': 's', 'T5-base': '^'}
     lstyles = {'GPT-2 Small': '-', 'GPT-2 Medium': '--', 'T5-base': '-.'}
 
     for model in sweep_models:
         ax.plot(range(len(sweep_bs)), sweep_models[model],
-                marker=markers[model], color=colors[model], lw=2.5, markersize=9,
-                label=model, markerfacecolor='white', markeredgewidth=2.5,
+                marker=markers[model], color=colors[model], lw=3.5, markersize=11,
+                label=model, markerfacecolor='white', markeredgewidth=3,
                 markeredgecolor=colors[model], linestyle=lstyles[model])
         ax.text(len(sweep_bs) - 1 + 0.15, sweep_models[model][-1],
                 f'{sweep_models[model][-1]:,}', fontsize=9, color=colors[model],
@@ -268,8 +269,8 @@ def fig4_arch_sweep():
     ax.annotate('T5 catches up at large batch\n(comm overhead hidden)',
                 xy=(3, sweep_models['T5-base'][-1]),
                 xytext=(1.5, 17500),
-                fontsize=9, ha='center', color=YELLOW, fontweight='bold',
-                arrowprops=dict(arrowstyle='->', color=YELLOW, lw=1.5))
+                fontsize=9, ha='center', color=TEAL, fontweight='bold',
+                arrowprops=dict(arrowstyle='->', color=TEAL, lw=1.5))
 
     plt.tight_layout()
     plt.savefig(f'{OUT}/fig4_arch_batch_sweep.png')
